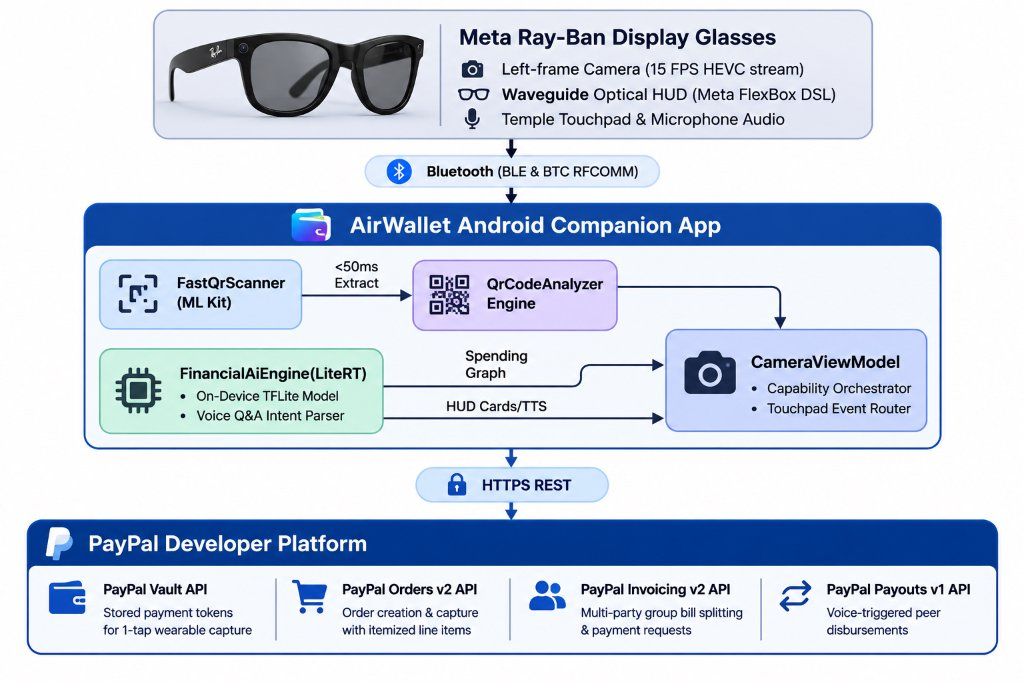
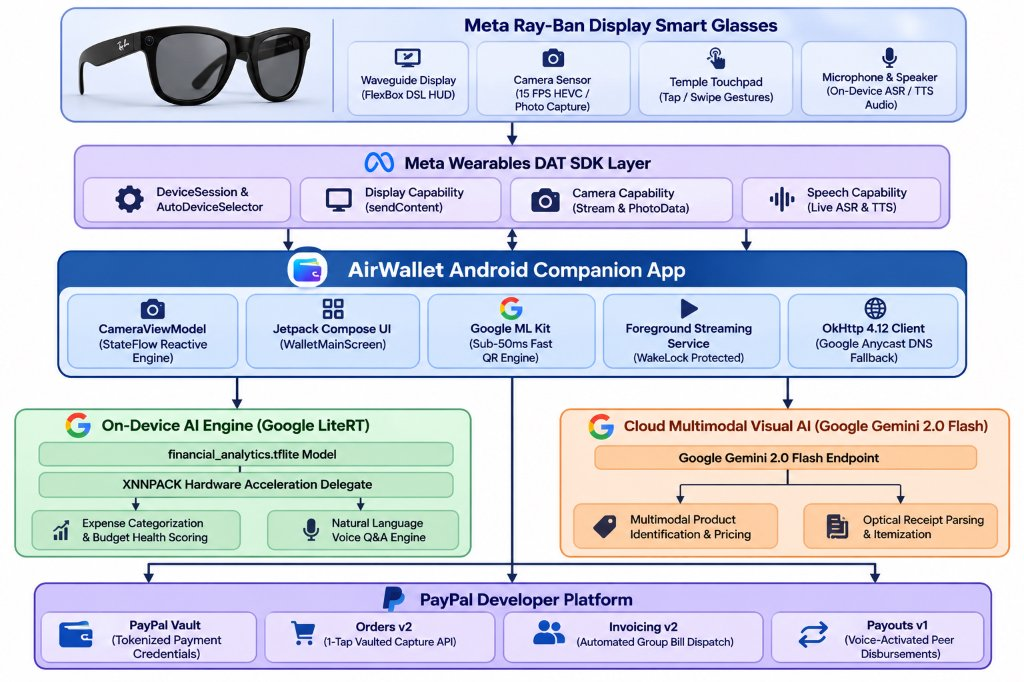
Replace architecture diagram with high-resolution unified diagram

diff --git a/README.md b/README.md
@@ -19,82 +19,6 @@ Wearers can look at merchant QR codes or physical products, inspect details dire
 
 ## System Architecture
 
-```mermaid
-flowchart TD
-    subgraph Glasses["Meta Ray-Ban Display Smart Glasses"]
-        HUD["Waveguide Display (FlexBox DSL HUD)"]
-        CAM["Camera Sensor (15 FPS HEVC / Photo Capture)"]
-        TOUCH["Temple Touchpad (Tap / Swipe Gestures)"]
-        MIC["Microphone & Speaker (On-Device ASR / TTS Audio)"]
-    end
-
-    subgraph DAT["Meta Wearables DAT SDK Layer"]
-        CORE["DeviceSession & AutoDeviceSelector"]
-        DISP_CAP["Display Capability (sendContent)"]
-        CAM_CAP["Camera Capability (Stream & PhotoData)"]
-        SPEECH_CAP["Speech Capability (Live ASR & TTS)"]
-    end
-
-    subgraph App["AirWallet Android Companion App"]
-        VM["CameraViewModel (StateFlow Reactive Engine)"]
-        UI["Jetpack Compose UI (WalletMainScreen)"]
-        MLKIT["Google ML Kit (Sub-50ms Fast QR Engine)"]
-        FGS["Foreground Streaming Service (WakeLock Protected)"]
-        RETRY["OkHttp 4.12 Client (Google Anycast DNS Fallback)"]
-    end
-
-    subgraph EdgeAI["On-Device AI Engine (Google LiteRT)"]
-        LITERT["financial_analytics.tflite Model"]
-        XNNPACK["XNNPACK Hardware Acceleration Delegate"]
-        FIN_AI["Expense Categorization & Budget Health Scoring"]
-        VOICE_QA["Natural Language Voice Q&A Engine"]
-    end
-
-    subgraph CloudAI["Cloud Multimodal Visual AI (Google Gemini 2.0 Flash)"]
-        GEMINI["Google Gemini 2.0 Flash Endpoint"]
-        PROD_ID["Multimodal Product Identification & Pricing"]
-        BILL_OCR["Optical Receipt Parsing & Itemization"]
-    end
-
-    subgraph PayPal["PayPal Developer Platform"]
-        VAULT["PayPal Vault (Tokenized Payment Credentials)"]
-        ORDERS["Orders v2 (1-Tap Vaulted Capture API)"]
-        INVOICE["Invoicing v2 (Automated Group Bill Dispatch)"]
-        PAYOUTS["Payouts v1 (Voice-Activated Peer Disbursements)"]
-    end
-
-    %% Hardware to DAT
-    HUD <--> DISP_CAP
-    CAM --> CAM_CAP
-    TOUCH --> CORE
-    MIC <--> SPEECH_CAP
-
-    %% DAT to App
-    CORE <--> VM
-    DISP_CAP <--> VM
-    CAM_CAP --> FGS --> VM
-    CAM_CAP --> MLKIT
-    SPEECH_CAP <--> VM
-    VM <--> UI
-
-    %% App to Edge AI
-    VM <--> LITERT
-    LITERT <--> XNNPACK
-    LITERT --> FIN_AI
-    LITERT --> VOICE_QA
-
-    %% App to Cloud AI
-    VM --> RETRY --> GEMINI
-    GEMINI --> PROD_ID --> VM
-    GEMINI --> BILL_OCR --> VM
-
-    %% App to PayPal Gateway
-    VM <--> VAULT
-    VM --> ORDERS
-    VM --> INVOICE
-    VM --> PAYOUTS
-```
-
 ![AirWallet Architecture](docs/architecture.jpg)
 
 ---
